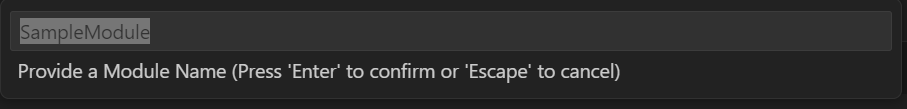
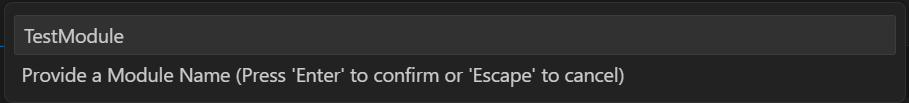
UPdate module name

Changed region(s): [[0.0, 0.5825, 0.71, 0.8447], [0.0, 0.1456, 0.1852, 0.4369], [0.0, 0.5243, 0.9879, 0.5534]]

diff --git a/Backend/dotnet/IOT/EdgeSolution/README.md b/Backend/dotnet/IOT/EdgeSolution/README.md
@@ -85,7 +85,7 @@ az login
 
     ![ModuleType](./imgs/ModuleType.png)
 
-4. Provide Module Name: Using Default Name `SampleModule`
+4. Provide Module Name: `TestModule`
     ![ModuleName](./imgs/ModuleName.png)
 
 5. Provide Docker Image Container Registry: Using default local registry
@@ -94,6 +94,8 @@ az login
 > After all above steps you will see these project structure as below Image.
 
 ![Project Structure](./imgs/ProjectStructure.png)
+
+6. There is an issue in Extention It is not creating `module.json` and `Dockerfile` for C# module. so please add manually.
 
 
 
